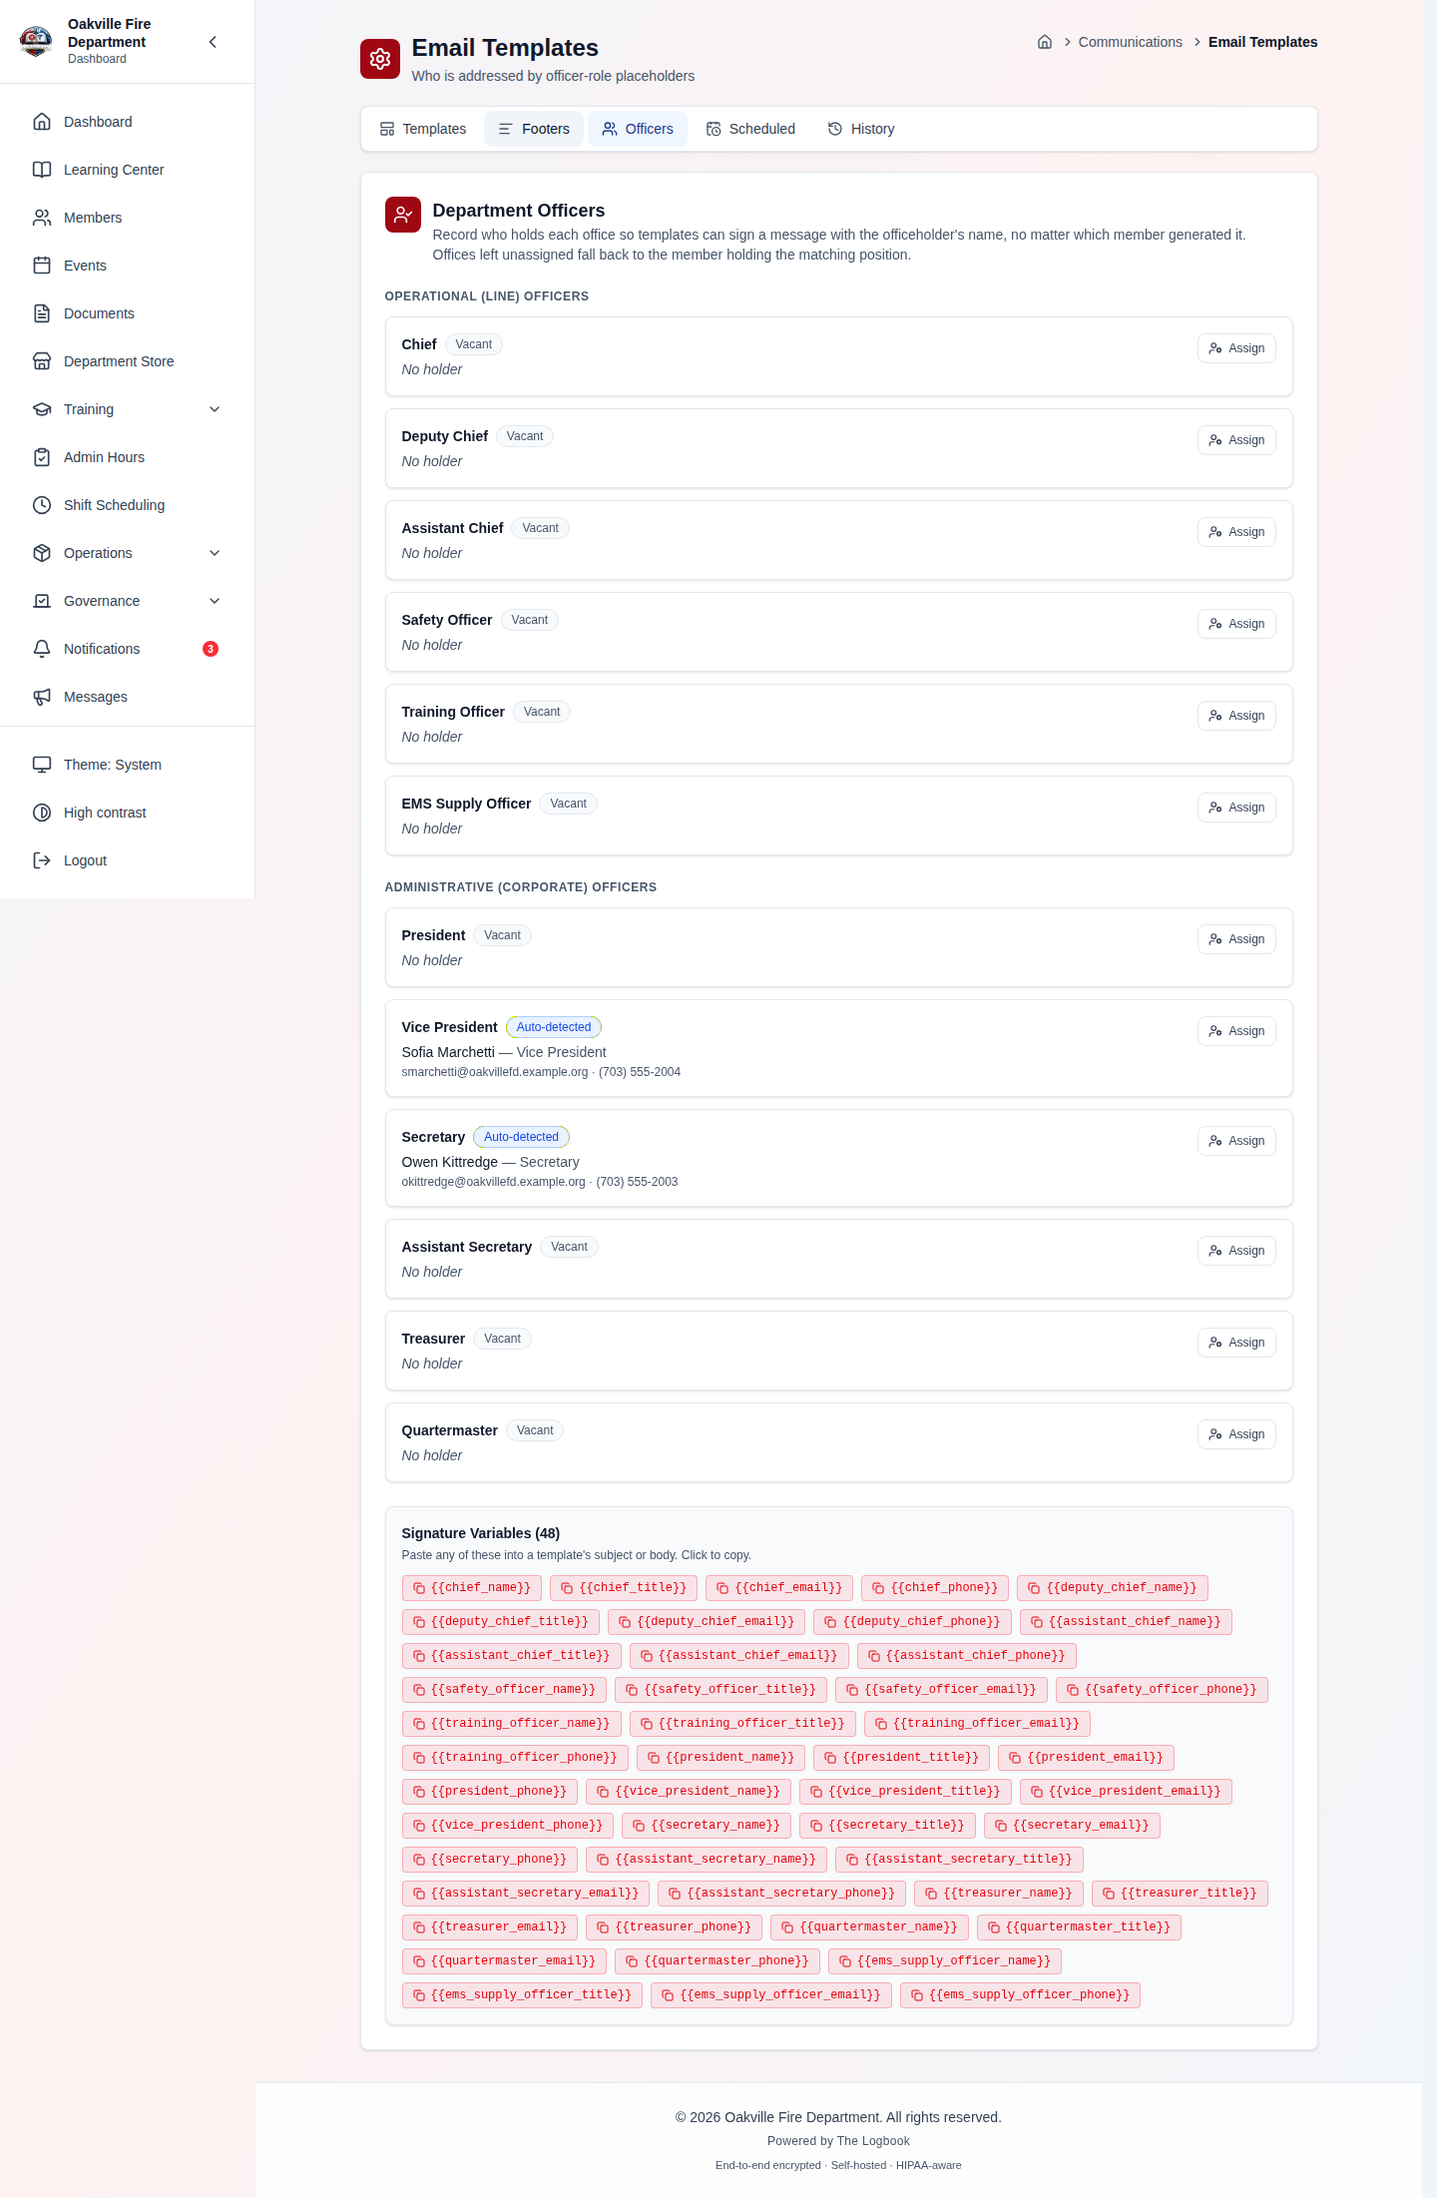
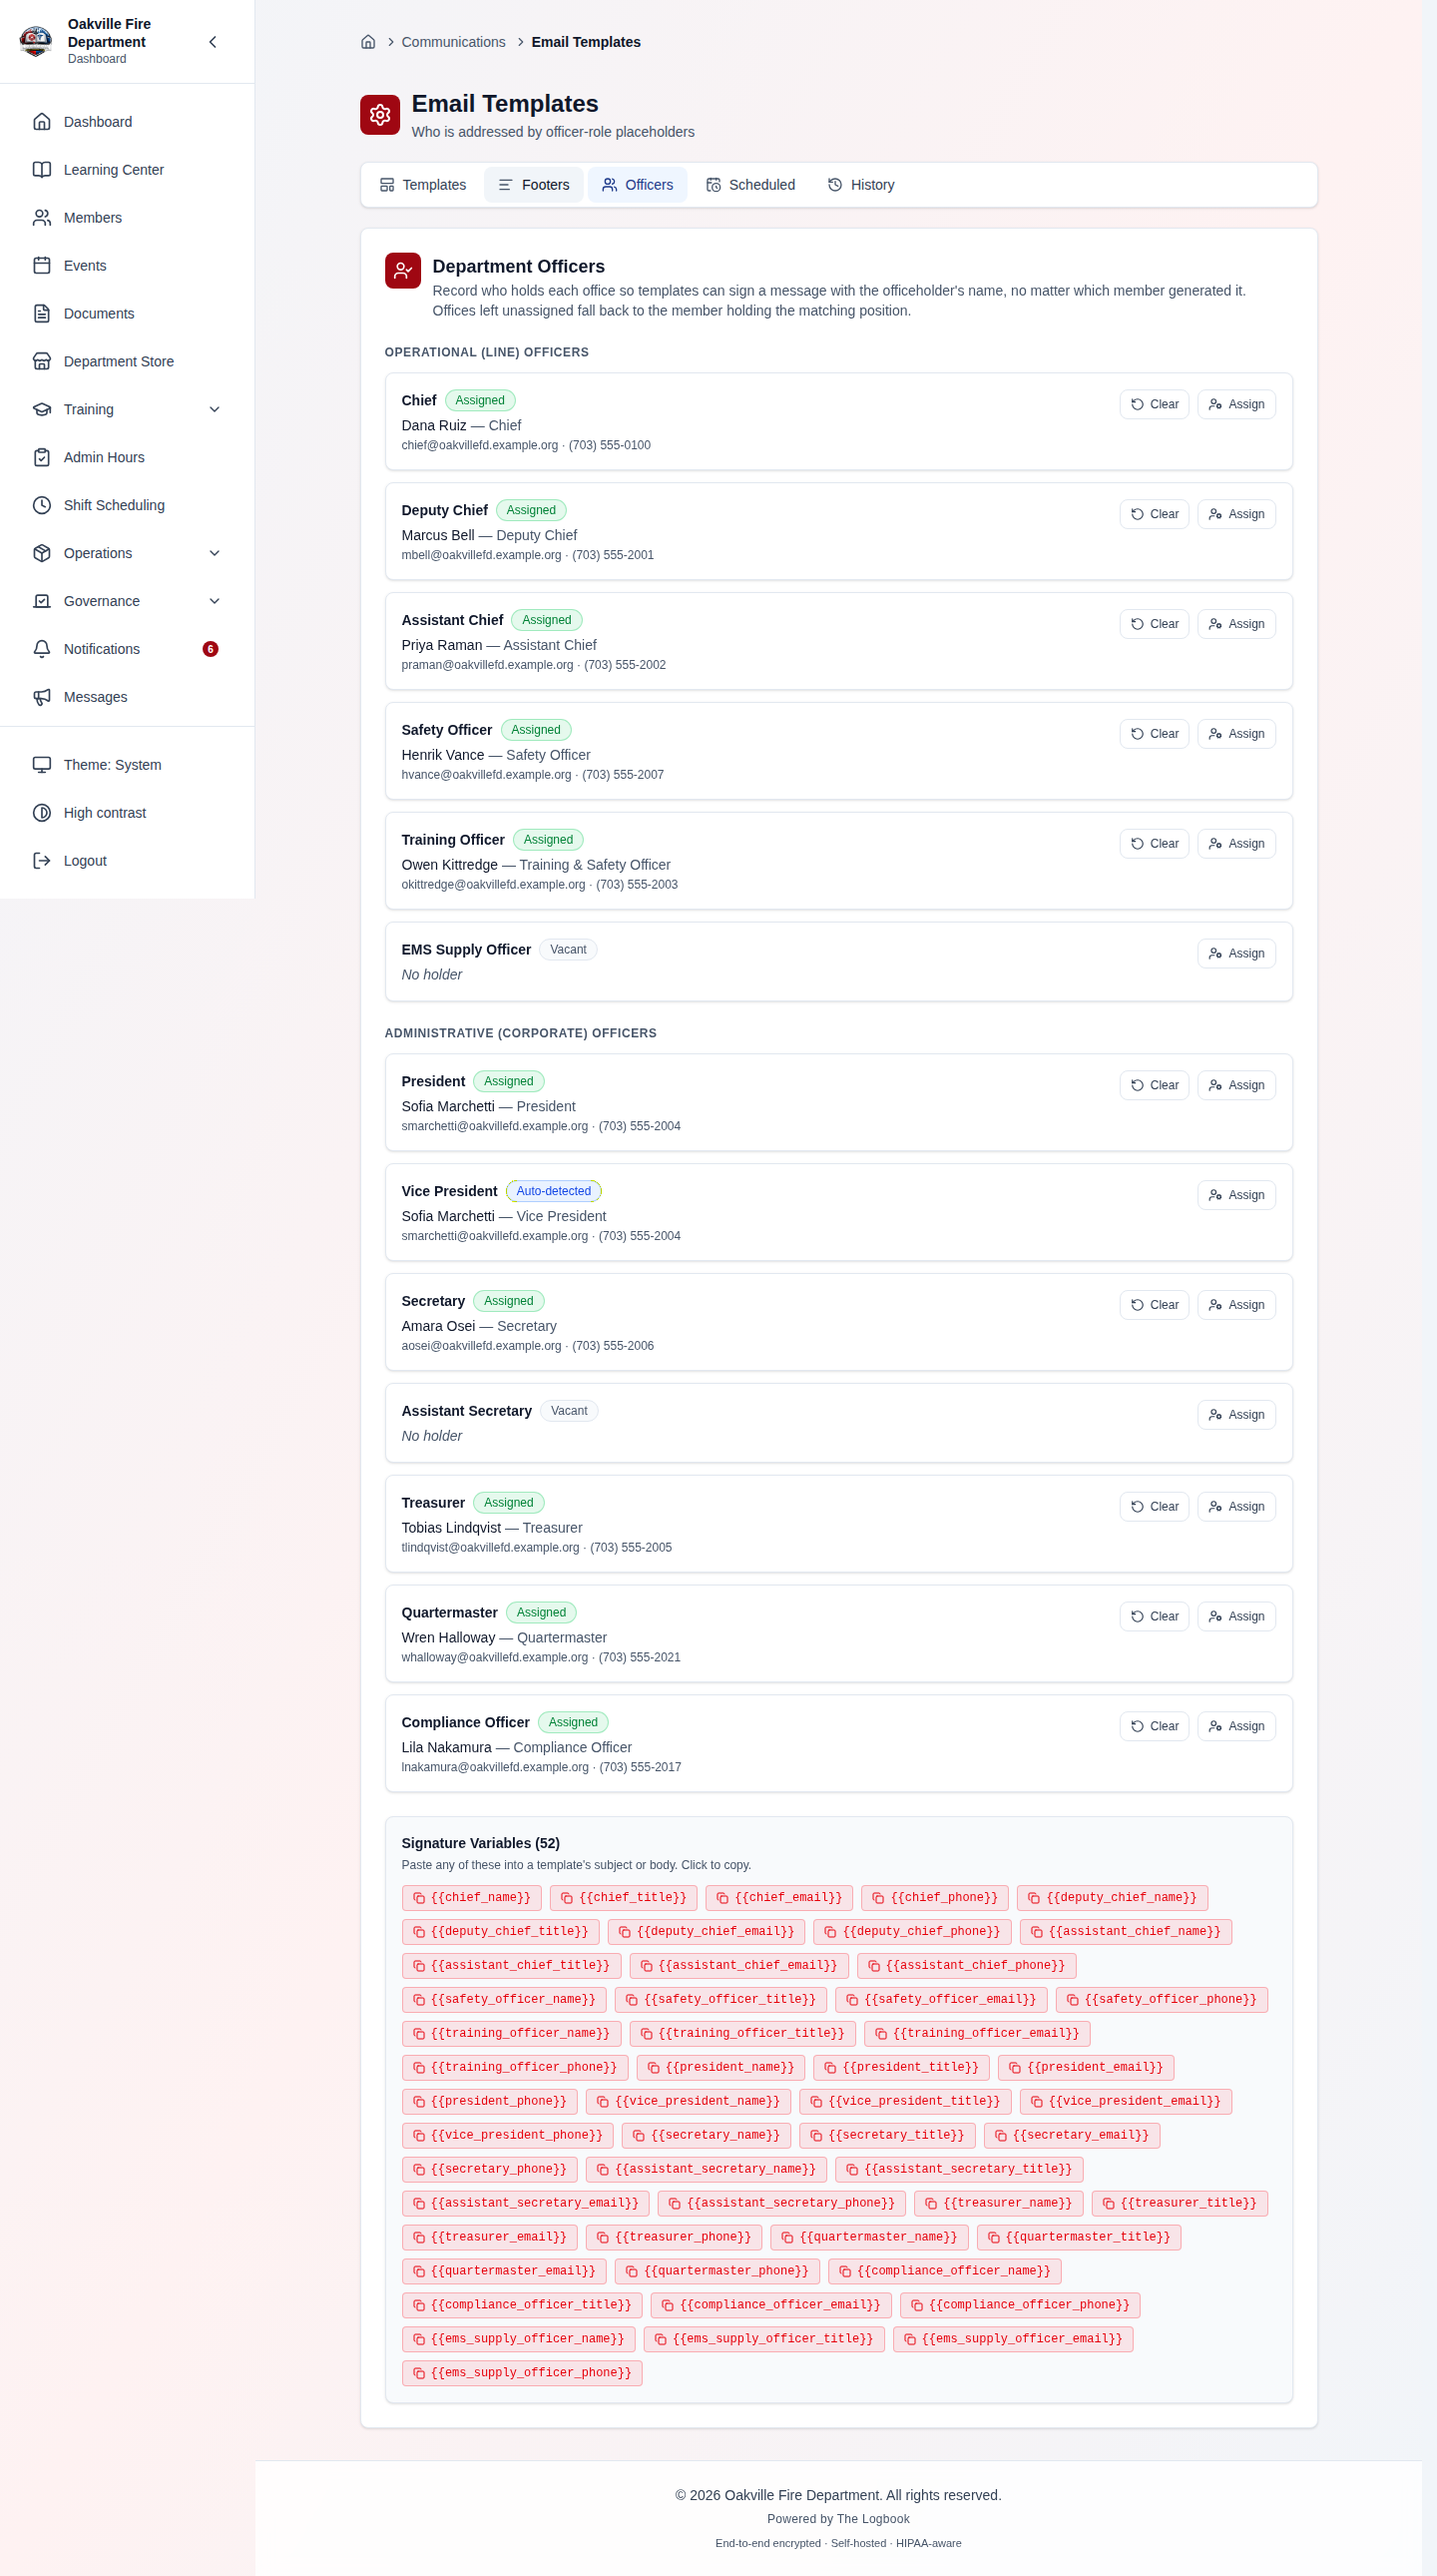
Re-shoot the Officers tab for the Compliance Officer
08-37-email-officers now shows the Compliance Officer office, held by
Lila Nakamura, and the Signature Variables count of 52. Captured from a
freshly seeded demo on main.

Six other candidate shots were re-captured and diffed against the
committed images and left alone: the change is scrolled or below the
fold in each. SCREENSHOT_CURRENCY.md records all seven, plus unrelated
drift noticed in the template-editor and role-management shots.

Claude-Session: https://claude.ai/code/session_019ykXRJi92ACeJD3WAutoj9

diff --git a/docs/training/SCREENSHOT_CURRENCY.md b/docs/training/SCREENSHOT_CURRENCY.md
@@ -1,5 +1,27 @@
 # Screenshot currency
 
+## Disposition for September 24-25, 2026 - the Compliance Officer
+
+The Compliance Officer arrived as a seeded position (#2673), an active default
+**Compliance** suggestion box it reviews (#2678), an email signature office
+(#2682), and a demo holder, Lila Nakamura (#2693). Seven candidate shots were
+re-captured from a freshly seeded demo and diffed against the committed images;
+one showed the change.
+
+| Image                         | Outcome                                                                                                                                                       |
+| ----------------------------- | ------------------------------------------------------------------------------------------------------------------------------------------------------------- |
+| `08-37-email-officers`        | **Re-shot.** New Compliance Officer row with Lila Nakamura assigned, and Signature Variables 48 → 52. Also replaces the older frame in which every office was vacant |
+| `07-14-suggestion-box-dialog` | Unchanged. The reviewer-positions list is a scroll box, captured scrolled to the ticked Secretary and Training Officer; Compliance Officer sits above the fold |
+| `08-04-role-management`       | Unchanged by this. Compliance Officer is 15th of 31 by priority, below the fold                                                                              |
+| `08-56`, `08-57`, `08-65`, `08-66` | Unchanged by this. The Officer Signature Variables header, whose count moved, sits below the editor's first screen in every one                         |
+
+**Found along the way, not re-shot.** The four template-editor shots and
+`08-04` no longer match the shipped UI for reasons unrelated to this change: the
+breadcrumb now sits above the page title rather than beside it, the template
+filter pills were restyled, Members & Accounts lists eight templates rather than
+seven, and the role cards' "+N more" permission counts moved. Each wants a
+re-shot on its own terms.
+
 ## Remaining placeholders, filled 2026-09-24 — 44 down to 0
 
 Every open placeholder in the guides was worked in one pass, and all but one
